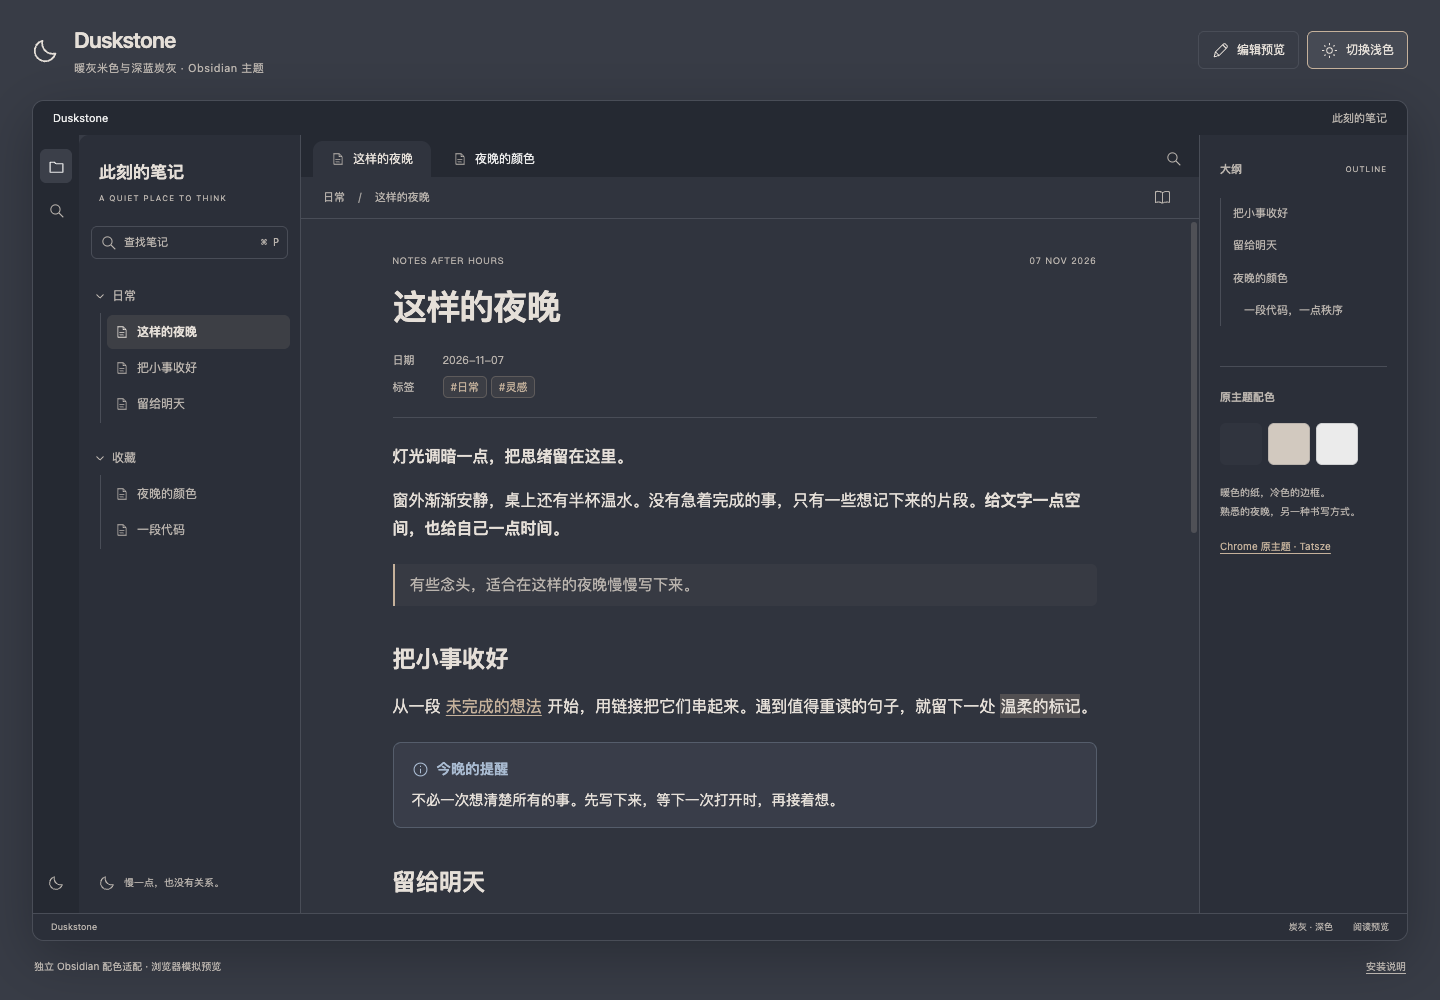
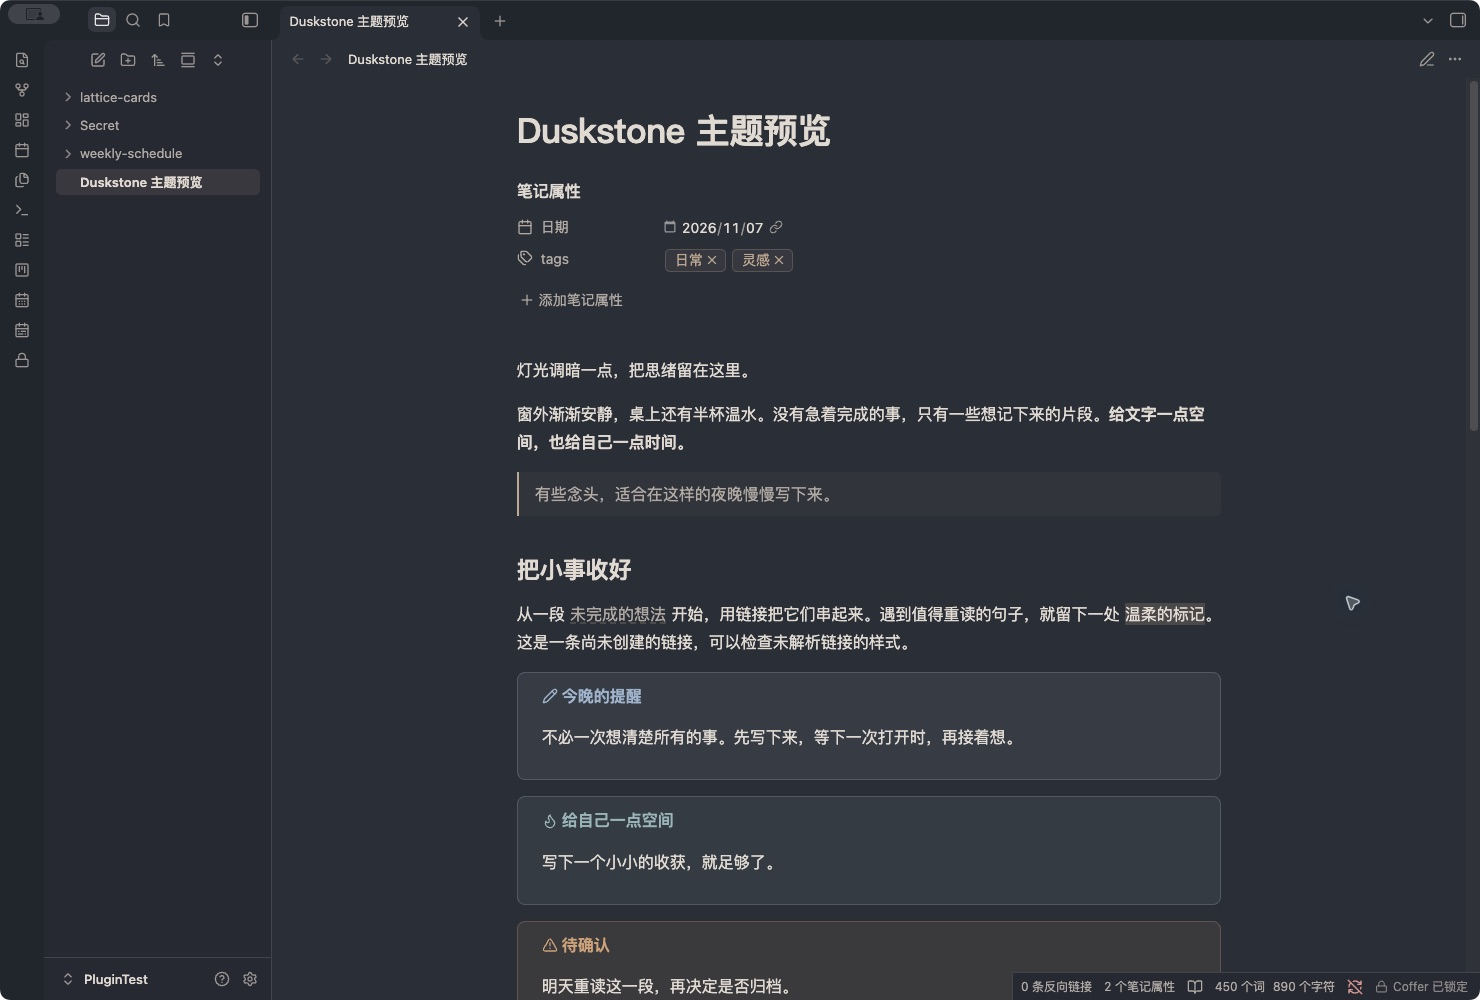
Replace preview mockups with native Obsidian screenshots

diff --git a/README.md b/README.md
@@ -4,9 +4,9 @@ Warm taupe, charcoal and quiet contrast. An offline, dependency-free Obsidian th
 
 [中文说明](README.zh-CN.md) · [Download](https://github.com/xwtaidev/obsidian-duskstone-theme/releases/latest) · [Changelog](CHANGELOG.md)
 
-![Duskstone light mode — browser preview](images/light.png)
+![Duskstone light mode — Obsidian 1.14.4 on macOS](images/light.png)
 
-![Duskstone dark mode — browser preview](images/dark.png)
+![Duskstone dark mode — Obsidian 1.14.4 on macOS](images/dark.png)
 
 ## Features
 
@@ -44,7 +44,7 @@ Open [preview/index.html](preview/index.html) in a browser, or run `python3 -m h
 
 The preview uses the real `theme.css` with a browser-only layout scaffold. It supports light/dark, reading/editing samples, tasks, chapter search (`Cmd/Ctrl + P`) and sidebar controls. Editing is a style sample and does not parse or save Markdown.
 
-Copy [这样的夜晚.md](examples/这样的夜晚.md) into a test vault to inspect real Obsidian rendering. Screenshots above are **browser previews**, not captures of a user's vault. The store thumbnail is [screenshot.png](screenshot.png), sized 512 × 288.
+Copy [这样的夜晚.md](examples/这样的夜晚.md) into a test vault to inspect real Obsidian rendering. Screenshots above are **real captures of Obsidian 1.14.4 on macOS**, taken in a test vault with the sample note. The interactive browser preview is a separate layout simulation. The store thumbnail is [screenshot.png](screenshot.png), sized 512 × 288.
 
 ## Readability and compatibility
 
@@ -57,7 +57,7 @@ Default WCAG contrast ratios against the main note background:
 | Links | 5.37 : 1 | 6.01 : 1 |
 | Primary button text/background | 7.68 : 1 | 7.03 : 1 |
 
-Verified in browser fixtures with Obsidian 1.12.4's native stylesheet, and visually checked in the Obsidian 1.14.4 macOS test vault for light mode, reading/editing and sidebar corner states. The browser preview was checked at 320–1440px, including search and keyboard controls. Print colors and native accent overrides were also checked.
+Verified in browser fixtures with Obsidian 1.12.4's native stylesheet, and visually checked in the Obsidian 1.14.4 macOS test vault for light/dark modes, reading/editing and sidebar corner states. The browser preview was checked at 320–1440px, including search and keyboard controls. Print colors and native accent overrides were also checked.
 
 iOS, Android, every split/stacked layout and third-party plugin combination have not been fully tested. Mobile uses the native layout; graph and Canvas are supplied with color variables. Custom accents or snippets may change contrast. Please [report issues](https://github.com/xwtaidev/obsidian-duskstone-theme/issues) with your Obsidian version, platform and a screenshot.
 

diff --git a/README.zh-CN.md b/README.zh-CN.md
@@ -4,9 +4,9 @@
 
 [English](README.md) · [下载发行版](https://github.com/xwtaidev/obsidian-duskstone-theme/releases/latest) · [更新记录](CHANGELOG.md)
 
-![浅色模式：浏览器模拟预览](images/light.png)
+![浅色模式：Obsidian 1.14.4 macOS 实机截图](images/light.png)
 
-![深色模式：浏览器模拟预览](images/dark.png)
+![深色模式：Obsidian 1.14.4 macOS 实机截图](images/dark.png)
 
 ## 特点
 
@@ -43,11 +43,11 @@
 
 支持深浅色、阅读／编辑样式、搜索（`Cmd/Ctrl + P`）、任务勾选和侧栏切换。编辑样例不解析或保存 Markdown。页面直接引用 `theme.css`，由 `preview.css` 模拟布局。
 
-将 [这样的夜晚.md](examples/这样的夜晚.md) 复制到测试库，可检查实机样式。上方截图均为浏览器模拟；市场缩略图是 [screenshot.png](screenshot.png)，尺寸 512 × 288。
+将 [这样的夜晚.md](examples/这样的夜晚.md) 复制到测试库，可检查实机样式。上方截图均来自 **Obsidian 1.14.4 macOS 实机**，使用测试库中的示例笔记；交互式浏览器预览另为布局模拟。市场缩略图是 [screenshot.png](screenshot.png)，尺寸 512 × 288。
 
 默认配色正文对比度：浅色 **8.45:1**、深色 **9.42:1**；链接分别为 **5.37:1** 和 **6.01:1**。
 
-已使用 Obsidian 1.12.4 原生样式进行浏览器检查，并在本机 Obsidian 1.14.4 macOS 测试库查看了浅色、阅读／编辑与侧栏展开／折叠效果。浏览器预览检查了 320–1440px、搜索、键盘操作、打印配色和自定义强调色。
+已使用 Obsidian 1.12.4 原生样式进行浏览器检查，并在本机 Obsidian 1.14.4 macOS 测试库查看了深浅色、阅读／编辑与侧栏展开／折叠效果。浏览器预览检查了 320–1440px、搜索、键盘操作、打印配色和自定义强调色。
 
 尚未完成 iOS／Android、所有分屏／堆叠布局和第三方插件组合验收。关系图与 Canvas 提供变量配色。自定义强调色或 CSS 片段可能改变对比度。[反馈问题](https://github.com/xwtaidev/obsidian-duskstone-theme/issues) 时请附上 Obsidian 版本、平台和截图。
 
